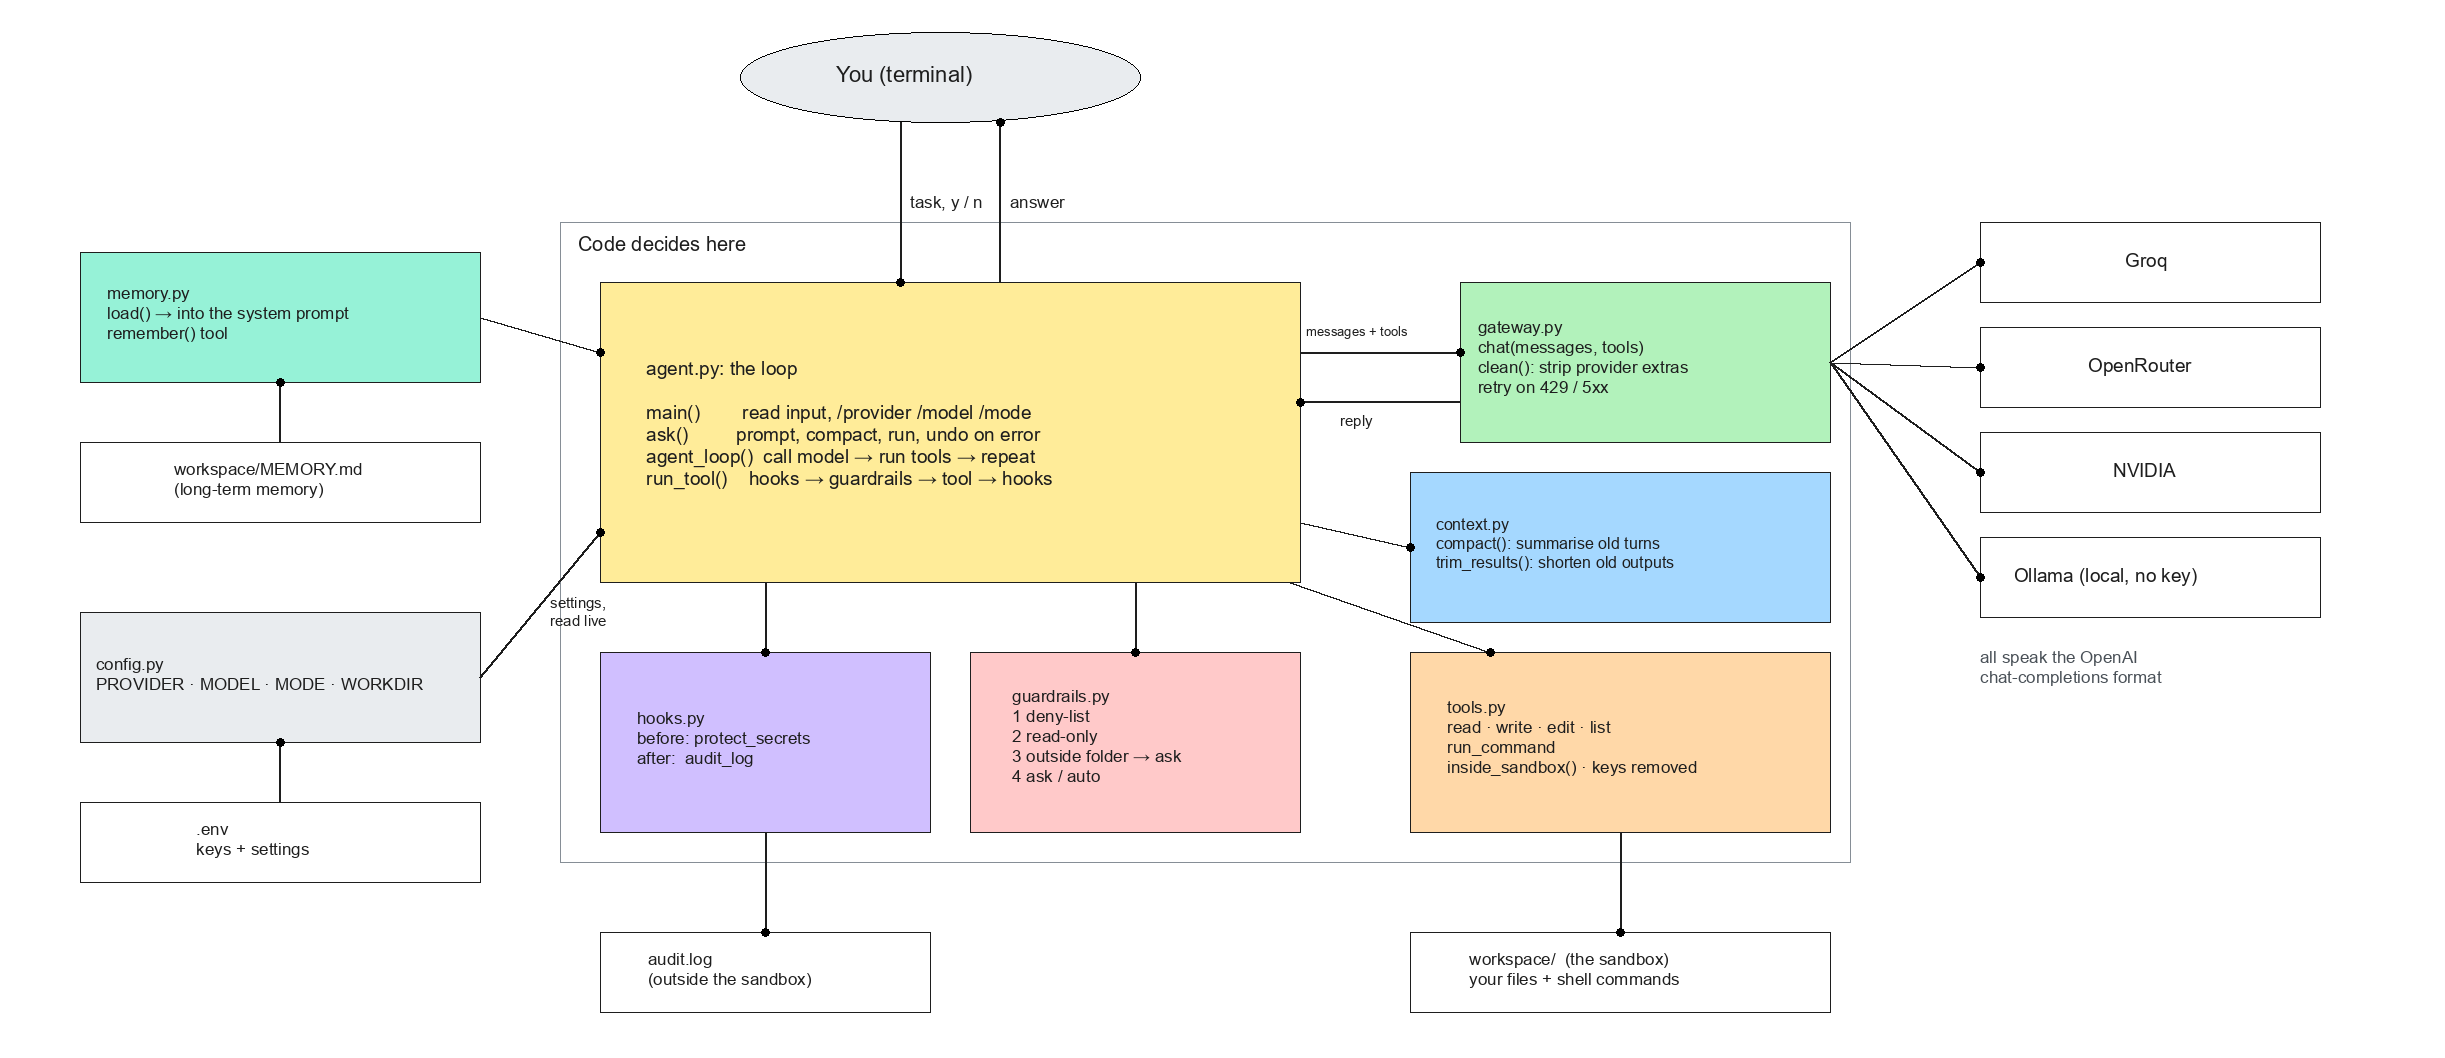
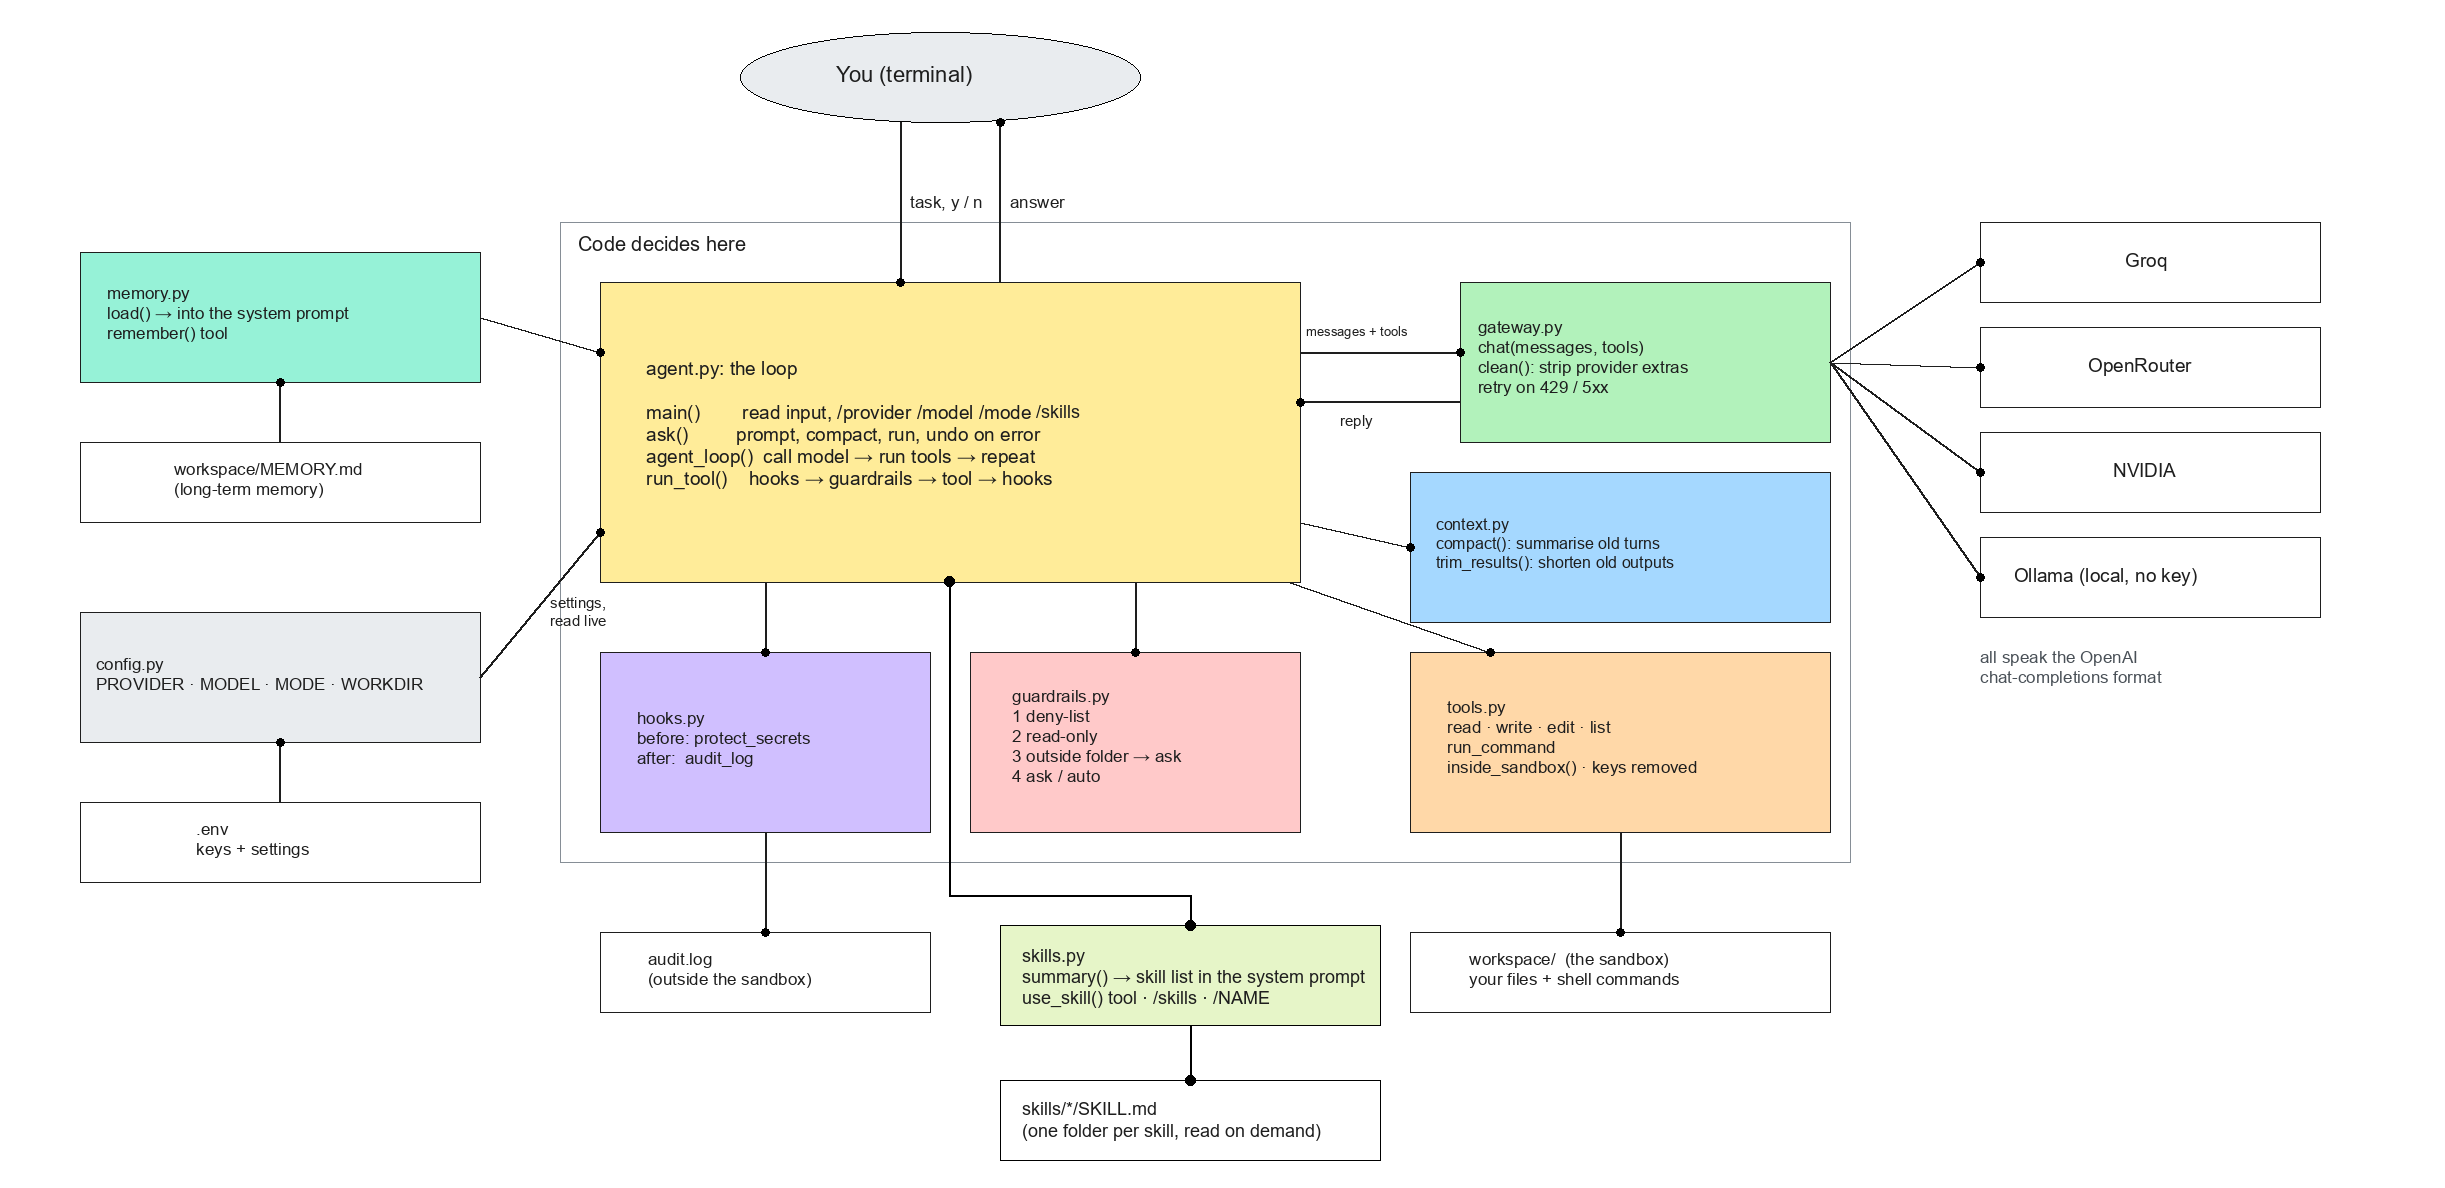
add:skills

diff --git a/agent.py b/agent.py
@@ -20,6 +20,7 @@ import gateway
 import guardrails
 import hooks
 import memory
+import skills
 import tools
 
 MAX_STEPS = 25  # a safety net so a confused model can't loop forever
@@ -28,6 +29,7 @@ SYSTEM_PROMPT = """You are mini-claude, a small coding agent.
 You work in this folder: {workdir}  (operating system: {os})
 For files outside it, just call the tool: the user will be asked for permission.
 Look at files before you change them. After changing code, run it to check it works.
+When you run something, include its actual output in your reply.
 If a tool result says BLOCKED, don't try to get around it; tell the user why.
 Keep your replies short.
 
@@ -37,16 +39,21 @@ The mode can change during the chat, so always call the tool and let the harness
 decide. Never refuse on your own because of something that was blocked earlier.
 
 What you remember about this project (from MEMORY.md):
-{memory}"""
+{memory}
+
+Skills you can load with use_skill (load the matching one before starting a task it covers):
+{skills}"""
 
 tools.TOOLS["remember"] = (memory.remember, "Save a fact about this project for future sessions.",
                            {"note": "The fact to remember, in one sentence"})
+tools.TOOLS["use_skill"] = (skills.use_skill, "Load a skill's full instructions.",
+                            {"name": "The skill's name, from the list in your instructions"})
 
 
 def system_prompt():
     """Rebuilt before every task, so the model always sees the current mode and memory."""
     return SYSTEM_PROMPT.format(workdir=config.WORKDIR, os=platform.system(),
-                                mode=config.MODE, memory=memory.load())
+                                mode=config.MODE, memory=memory.load(), skills=skills.summary())
 
 
 def run_tool(call):
@@ -72,6 +79,8 @@ def run_tool(call):
     except Exception as error:
         result = f"ERROR: {type(error).__name__}: {error}"
     hooks.run_after(name, args, result)
+    if name == "run_command":  # show what the command printed, not just that it ran
+        print("\n".join(f"    | {line}" for line in str(result).splitlines()[:20]))
     return result
 
 
@@ -116,7 +125,8 @@ HELP = f"""commands:
   /model NAME                  any model your provider offers
   /mode {'|'.join(MODES)}
   /context                     how full the context budget is
-  /compact                     summarise old turns now"""
+  /compact                     summarise old turns now
+  /skills                      list skills; run one with /NAME what you want"""
 
 
 def status():
@@ -139,6 +149,12 @@ def slash_command(text, messages):
         return
     if command == "/help":
         print(HELP)
+        return
+    if command == "/skills":
+        print(skills.summary())
+        return
+    if command[1:] in skills.find():  # /code-review app.py
+        print(ask(messages, skills.task(command[1:], value)))
         return
     if command not in ("/status", "/provider", "/model", "/mode"):
         print(f"unknown command {command}\n{HELP}")

diff --git a/skills.py b/skills.py
@@ -1,0 +1,72 @@
+"""Step 8 · Skills: know-how the agent loads only when it needs it.
+
+A skill is a folder with a SKILL.md file: a short header, then instructions.
+
+    skills/commit-message/SKILL.md
+        ---
+        name: commit-message
+        description: Write a git commit message for the current changes.
+        ---
+        1. Run `git diff` ...
+
+Only the one-line descriptions go into the system prompt, so ten skills cost
+ten lines of context. When a task matches one, the model calls `use_skill` and
+the full instructions arrive as a tool result. You can also run one yourself
+with /<name>.
+
+(Claude Code does the same: skills are folders with a SKILL.md, and only their
+descriptions are loaded until one is used.)
+"""
+
+import os
+
+import config
+
+SKILLS_DIR = os.path.join(config.HERE, "skills")
+
+
+def read(path):
+    """Split a SKILL.md into its header (as a dict) and its instructions."""
+    with open(path, encoding="utf-8") as f:
+        text = f.read()
+    header, body = {}, text
+    if text.startswith("---"):
+        _, front, body = text.split("---", 2)
+        for line in front.splitlines():
+            if ":" in line:
+                key, value = line.split(":", 1)
+                header[key.strip()] = value.strip()
+    return header, body.strip()
+
+
+def find():
+    """name -> (description, path) for every skills/<folder>/SKILL.md.
+    Scanned each time, so a new skill works without a restart."""
+    found = {}
+    if not os.path.isdir(SKILLS_DIR):
+        return found
+    for folder in sorted(os.listdir(SKILLS_DIR)):
+        path = os.path.join(SKILLS_DIR, folder, "SKILL.md")
+        if os.path.exists(path):
+            header, _ = read(path)
+            found[header.get("name", folder)] = (header.get("description", ""), path)
+    return found
+
+
+def summary():
+    """One line per skill, for the system prompt and for /skills."""
+    lines = [f"- {name}: {description}" for name, (description, _) in find().items()]
+    return "\n".join(lines) or "(none)"
+
+
+def use_skill(name):
+    """The tool: hand the model a skill's full instructions."""
+    skills = find()
+    if name not in skills:
+        return f"ERROR: there is no skill called {name}. Skills: {', '.join(skills) or 'none'}"
+    return read(skills[name][1])[1]
+
+
+def task(name, request):
+    """What /<name> sends: the skill's instructions, then what you asked for."""
+    return f"Follow the '{name}' skill below.\n\n{use_skill(name)}\n\nRequest: {request or '(none)'}"

diff --git a/guardrails.py b/guardrails.py
@@ -14,7 +14,7 @@ import re
 import config
 import tools
 
-SAFE_TOOLS = {"read_file", "list_files", "remember"}
+SAFE_TOOLS = {"read_file", "list_files", "remember", "use_skill"}
 
 NEVER_ALLOWED = [
     r"\brm\s+-\w*r\w*f?\s+(/|~|\*)",  # rm -rf /   rm -rf ~   rm -rf *

diff --git a/README.md b/README.md
@@ -13,7 +13,8 @@ you ──> agent.py ──> gateway.py ──> Groq / OpenRouter / NVIDIA / Oll
            ├── guardrails.py  deny-list + permission modes (ask / auto / read-only)
            ├── hooks.py       your own code before / after every tool call
            ├── memory.py      MEMORY.md, loaded into the prompt at startup
-           └── context.py     summarise old turns when the conversation gets too big
+           ├── context.py     summarise old turns when the conversation gets too big
+           └── skills.py      skills/*/SKILL.md, loaded only when a task needs one
 ```
 
 ## Setup (2 minutes)
@@ -48,6 +49,8 @@ Point it at another folder with `WORKDIR=/path/to/project`.
 > /provider ollama            run on your own machine
 > /context                    how full the context budget is
 > /compact                    summarise old turns now
+> /skills                     list skills (add your own in skills/NAME/SKILL.md)
+> /code-review fib.py         run a skill yourself
 > exit
 ```
 
@@ -62,7 +65,8 @@ To run one task and exit: `python agent.py "add a test for fib.py"`
 | Python-function hooks | Shell-command hooks in settings.json (PreToolUse, PostToolUse, Stop…) |
 | `MEMORY.md` | CLAUDE.md files at user, project and folder level |
 | Summary of old turns + trimmed tool outputs (`context.py`) | Auto-compaction + `/compact` |
-| One agent | Sub-agents, skills, MCP servers, streaming, prompt caching, resumable sessions |
+| `skills/*/SKILL.md` + `use_skill` tool | Skills, plus bundled scripts and plugins |
+| One agent | Sub-agents, MCP servers, streaming, prompt caching, resumable sessions |
 
 ## Notes
 

diff --git a/skills/code-review/SKILL.md b/skills/code-review/SKILL.md
@@ -1,0 +1,10 @@
+---
+name: code-review
+description: Review a file for bugs and unclear code. Use when asked to review, check or audit code.
+---
+1. Read the file with read_file. If no file was named, list_files and ask which one.
+2. Look for, in this order: bugs (wrong logic, unhandled errors, edge cases),
+   then security problems, then names or structure that are hard to follow.
+3. Do not change the file. Reply with a short list, most serious first:
+   `line N: what is wrong -> how to fix it`.
+4. If nothing is wrong, say so in one line.
